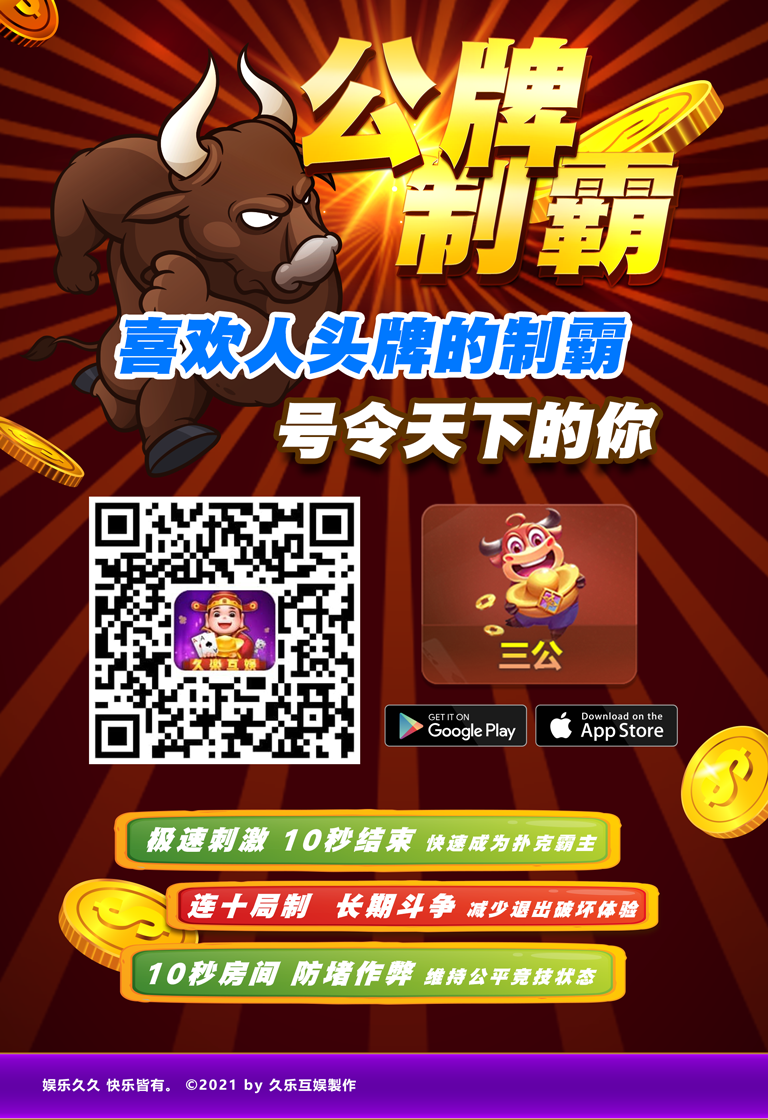
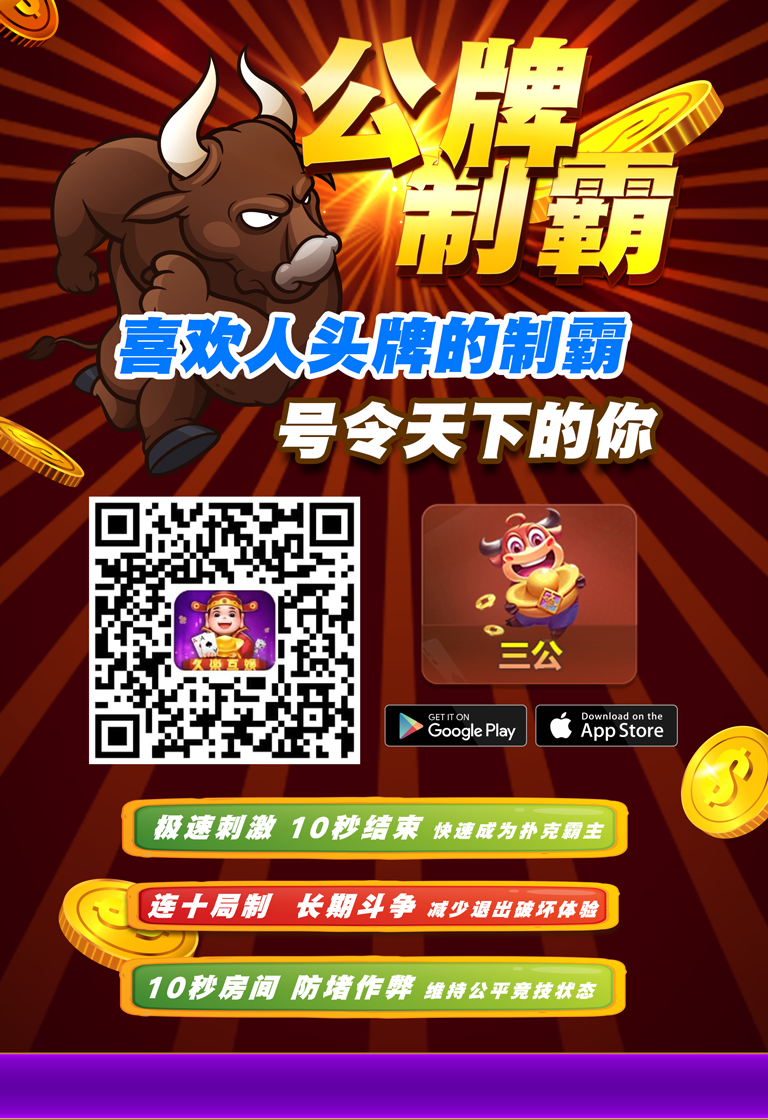
Add files via upload

Changed region(s): [[0.125, 0.6875, 0.875, 1.0], [0.1562, 0.9375, 0.2188, 1.0], [0.0625, 0.9375, 0.125, 1.0]]

diff --git a/page1.html b/page1.html
@@ -31,10 +31,11 @@
 							 width: 100%;
 						}
 						.link {
+							 width: 100%;
+								text-align: center;
 							 font-size: 18px;
 							 position: absolute;
 								bottom:23px;
-								right:120px;
 								color:#fff;
 						}
 						.linkAherf {
@@ -44,7 +45,7 @@
 							 width: 60px;
 								height: 60px;
 							 position: absolute;
-								bottom:30px;
+								bottom:80px;
 								right:10px;
 						}
 						.robot img {
@@ -55,7 +56,7 @@
 							 width: 60px;
 								height: 60px;
 							 position: absolute;
-								bottom:100px;
+								bottom:150px;
 								right:10px;
 								border:2px solid #fff;
 								box-shadow: 0 0 10px #000 inset;
@@ -79,12 +80,12 @@
 						  }
 								.link {
 									 font-size: 12px;
-								  bottom:10px;
-							  	right:50px;
+								  bottom:0px;
 						  }
 								.home {
 									 width: 40px;
 										height: 40px;
+										bottom:100px;
 								}
 								.robot {
 									 width: 50px;
@@ -111,7 +112,7 @@
 											<img src="img/robot.png">
 									</a>
 							</div>
-							<div class="link"><a class="linkAherf" href="http://julegaming.com">www.julegaming.com</a></div>
+							<div class="link"><a class="linkAherf" href="http://julegaming.com">娱乐久久 快乐皆有。 ©2021 by 久乐互娱製作 www.julegaming.com</a></div>
 				  </div>
 					</div>
   </body>
